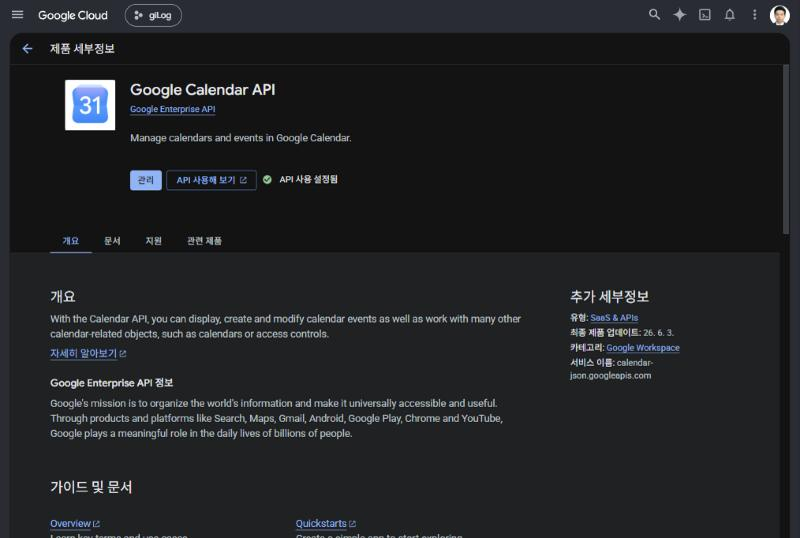
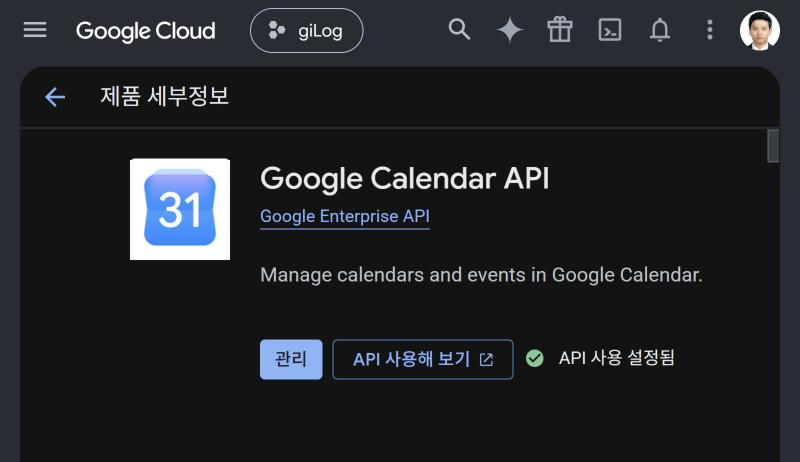
manual: setup guide v6 – full-width pictures, sharper captures (console zoom 2, l07 preview 3x, bin folder, share3 previews)
Claude-Session: https://claude.ai/code/session_01Jceth8a6knanqAjrfV6UhR

diff --git a/tools/manual/setup_l07.py b/tools/manual/setup_l07.py
@@ -1,0 +1,25 @@
+import asyncio,sys,json
+sys.path.insert(0,'/home/claude/gilog/tools/manual')
+import cap,shoot,hwpx_pics
+hwpx_pics.load_extra('/home/claude/gilog/docs/manual/hangul/map')
+cap.DPR=3
+from playwright.async_api import async_playwright
+async def m():
+    srv,port=cap.serve('/tmp/claude-0/g_052')
+    async with async_playwright() as pw:
+        br=await pw.chromium.launch()
+        ctx,p=await cap.open_scene(br,f'http://127.0.0.1:{port}/','settings_full')
+        vals={"google.client":{"id":"x.apps.googleusercontent.com","secret":"s"},
+              "google.token":{"refresh":"r","access":"a","exp":9999999999999,"scope":"https://www.googleapis.com/auth/calendar"},
+              "google.state":{"calendarId":"c","items":{},"listId":"","titems":{},"lastOk":"2026-10-21 09:58","lastError":"","full":False}}
+        for k,v in vals.items():
+            await p.evaluate("([k,v])=>window.__fake.values.set(k,v)",[k,json.dumps(v)])
+        await p.route("**/googleapis.com/**", lambda r: r.fulfill(status=200, body="{}"))
+        await shoot.nav(p,"캘린더"); await shoot.nav(p,"설정"); await p.wait_for_timeout(1200)
+        card=p.locator('section.mod-card').nth(4)
+        print(await card.inner_text())
+        await p.mouse.move(1599,899); await p.wait_for_timeout(300)
+        await card.screenshot(path='/tmp/claude-0/sg/l07_new.png')
+        await ctx.close(); await br.close()
+    srv.shutdown()
+asyncio.run(m())

diff --git a/tools/manual/hwpx_setup.py b/tools/manual/hwpx_setup.py
@@ -143,7 +143,7 @@ def frame(spec):
     png = os.path.join(imgdir, spec)
     bid = f"setup{len(items) + 1:02d}"
     items.append((bid, png))
-    return t[:tb.start()] + hp.fill(tb.group(0), png, bid, CENTER, hp.PX) + t[tb.end():]
+    return t[:tb.start()] + hp.fill(tb.group(0), png, bid, CENTER, None) + t[tb.end():]
 
 
 # ---------- 원고 → 문단 ----------
